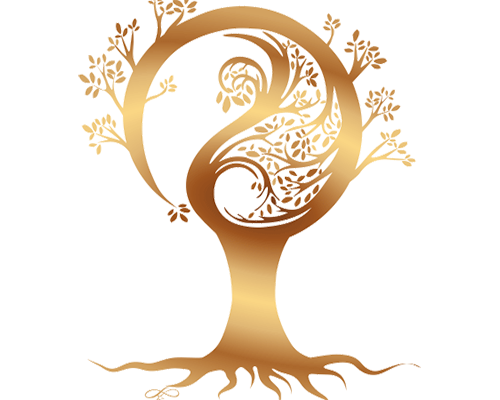
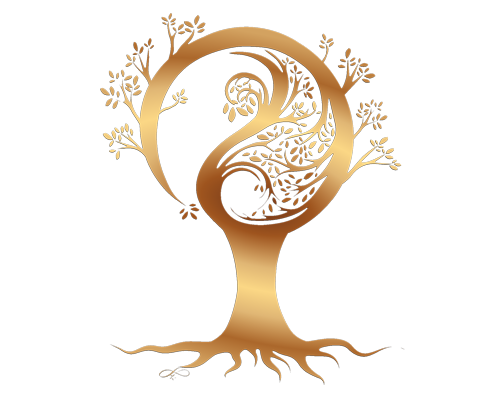
Touche final
Les images  ont été améliorés, le JS raccourci et un ménage a été
fait dans tous les styles, pour qu'ils soient plus cours et mieux
lisibles

Changed region(s): [[0.15, 0.0, 0.84, 1.0], [0.54, 0.6, 0.57, 0.69]]

diff --git a/page/real/tao.html b/page/real/tao.html
@@ -57,10 +57,12 @@
         <div class="wrapper">
             <div class="wrapElement">
                 <img src="../../img/TaoHarmonyhomePage.jpg" class="wrapbackground" alt="">
-                <svg xmlns="http://www.w3.org/2000/svg" width="100" height="100" viewBox="0 0 24 24" fill="none"
-                    stroke="#ffffff" stroke-width="2" stroke-linecap="round" stroke-linejoin="round">
-                    <path d="M6 9l6 6 6-6" />
-                </svg>
+                <a href="#grid">
+                    <svg xmlns="http://www.w3.org/2000/svg" width="100" height="100" viewBox="0 0 24 24" fill="none"
+                        stroke="#ffffff" stroke-width="2" stroke-linecap="round" stroke-linejoin="round">
+                        <path d="M6 9l6 6 6-6" />
+                    </svg>
+                </a>
             </div>
             <section>
 

diff --git a/page/real.html b/page/real.html
@@ -61,21 +61,16 @@
         </p>
         <section id="travaux">
             <div class="travaux_grid">
-
                 <div id="tutoJV">
-
                     <a href="./real/tutoJV.html"><img src="../img/tutoJV.jpg" alt="Logo du les tutos jv"></a>
                 </div>
 
                 <a href="./real/tao.html">
                     <div id="taoHarmony">
-                        <img src="../img/taoharmonyeal.png" alt="logo du site Tao Harmony">
+                        <img src="../img/tao_harmony.jpg" alt="logo du site Tao Harmony">
                     </div>
                 </a>
 
-                <div id="tutoJV">
-                    <img src="../img/tutoJV.jpg" alt="">
-                </div>
             </div>
         </section>
     </main>

diff --git a/js/js.js b/js/js.js
@@ -12,16 +12,17 @@ window.addEventListener("scroll", () => {
    }
 })
 
-function appear(){
-    document.querySelector(".mobileBack").classList.toggle("hide")
-}
 
-function hide(){
+document.querySelector(".mobileFor img").addEventListener("click", () => {
     document.querySelector(".mobileBack").classList.toggle("hide")
-}
+})
 
-document.querySelector(".mobileFor img").addEventListener("click", appear)
-document.querySelector(".mobileBackHead img").addEventListener("click", hide)
+document.querySelector(".mobileBackHead img").addEventListener("click", () => {
+    document.querySelector(".mobileBack").classList.toggle("hide")
+})
+
+
+
 
 
 

diff --git a/style/real.css b/style/real.css
@@ -21,7 +21,6 @@ main {
     max-width: var(--width);
     margin-right: auto;
     margin-left: auto;
-    place-items: center;
     margin: 40px 0px;
 }
 
@@ -36,24 +35,14 @@ main {
     max-width: var(--width);
 }
 
-
-
 #tutoJV:hover {
     opacity: 0.7;
     transition: 0.8s;
 }
-#taoHarmony:hover .bouton{
-    top: 80%;
-    transition: 0.5s;
+#taoHarmony:hover{
+    opacity: 0.7;
+    transition: 0.8s;
 }
-
-.bouton:hover {
-
-    transition: 0.5s;
-    font-size: 18px;
-    cursor: pointer;
-}
-
 
 
 @media (max-width: 600px) {

diff --git a/index.html b/index.html
@@ -76,7 +76,7 @@
                 </p>
                 <p>
                     Envie de me contacter ? C'est juste là : <br>
-                    <a target="_blank" style="color: white;" href="mailto: clergue14@gmail.com">clergue14@gmail.com</a>
+                    <a  style="color: var(--jaune)" href="mailto: clergue14@gmail.com" target="_blank">clergue14@gmail.com</a>
                 </p>
                 <div class="boutonContainer">
                     <div>

diff --git a/style/header.css b/style/header.css
@@ -58,8 +58,12 @@ nav li:nth-child::after{
     margin: 0 auto;
 }
 
+.mobileFor img {
+    padding: 10px 0px;
+}
+
 .mobileBackHead div img {
-    transform: translateY(2px);
+    padding: 10px 0px;
 }
 
 .mobileBackHead ul {
